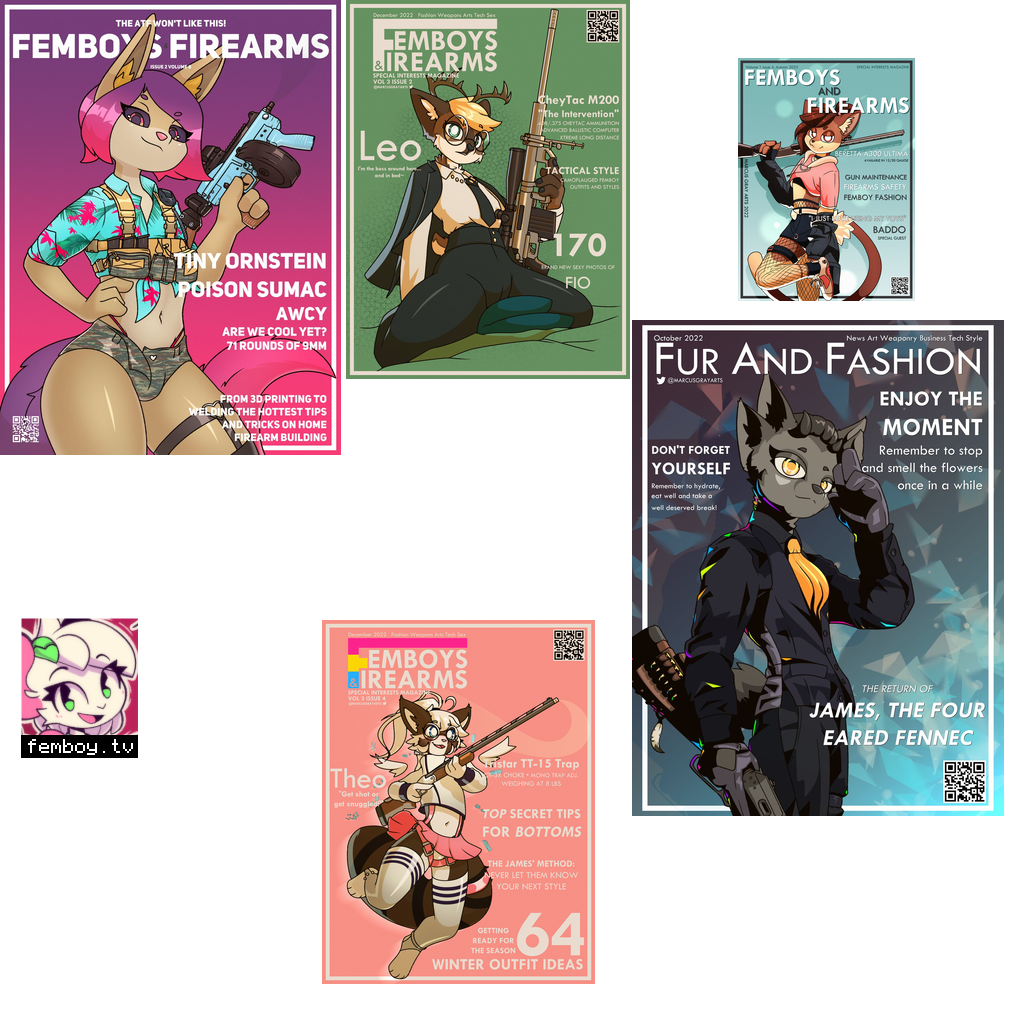
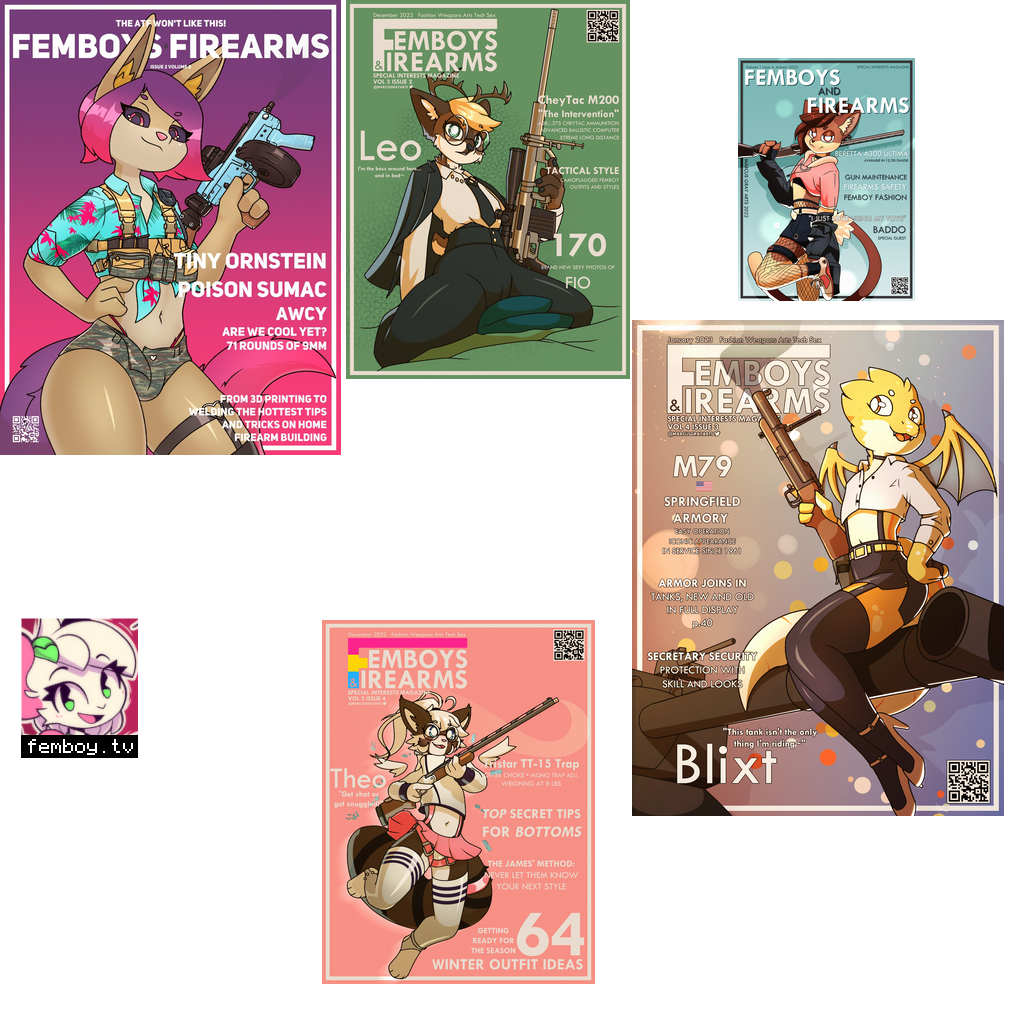
Added one more poster

Changed region(s): [[0.5938, 0.3125, 1.0, 0.8125]]

diff --git a/README.md b/README.md
@@ -1,6 +1,6 @@
 [![Github](https://img.shields.io/badge/dynamic/json?url=https%3A%2F%2Fapi.github.com%2Frepos%2Ffemboytv%2FLC_FemboysAndFirearms&query=%24.stargazers_count&suffix=%20stars&style=for-the-badge&logo=github&logoColor=%23FFFFFF&label=%20&labelColor=%23121212&color=%236cc644)](https://github.com/femboytv/LC_FemboysAndFirearms)
 [![Discord](https://img.shields.io/discord/1038789193113014333?style=for-the-badge&logo=discord&logoColor=%235865F2&label=%20&labelColor=%23121212&color=%235865F2)](https://discord.gg/VFRHNGrydD)
 # Femboys & Firearms poster pack
-Adds 31 randomly changing Femboys & Firearms posters and paintings using the [LethalPosters](https://thunderstore.io/c/lethal-company/p/femboytv/LethalPosters/) and [LethalPaintings](https://thunderstore.io/c/lethal-company/p/femboytv/LethalPaintings/) mods
+Adds 32 randomly changing Femboys & Firearms posters and paintings using the [LethalPosters](https://thunderstore.io/c/lethal-company/p/femboytv/LethalPosters/) and [LethalPaintings](https://thunderstore.io/c/lethal-company/p/femboytv/LethalPaintings/) mods
 
 ## All credit for the posters goes to [Marcus Gray](https://twitter.com/MarcusGrayArts)
